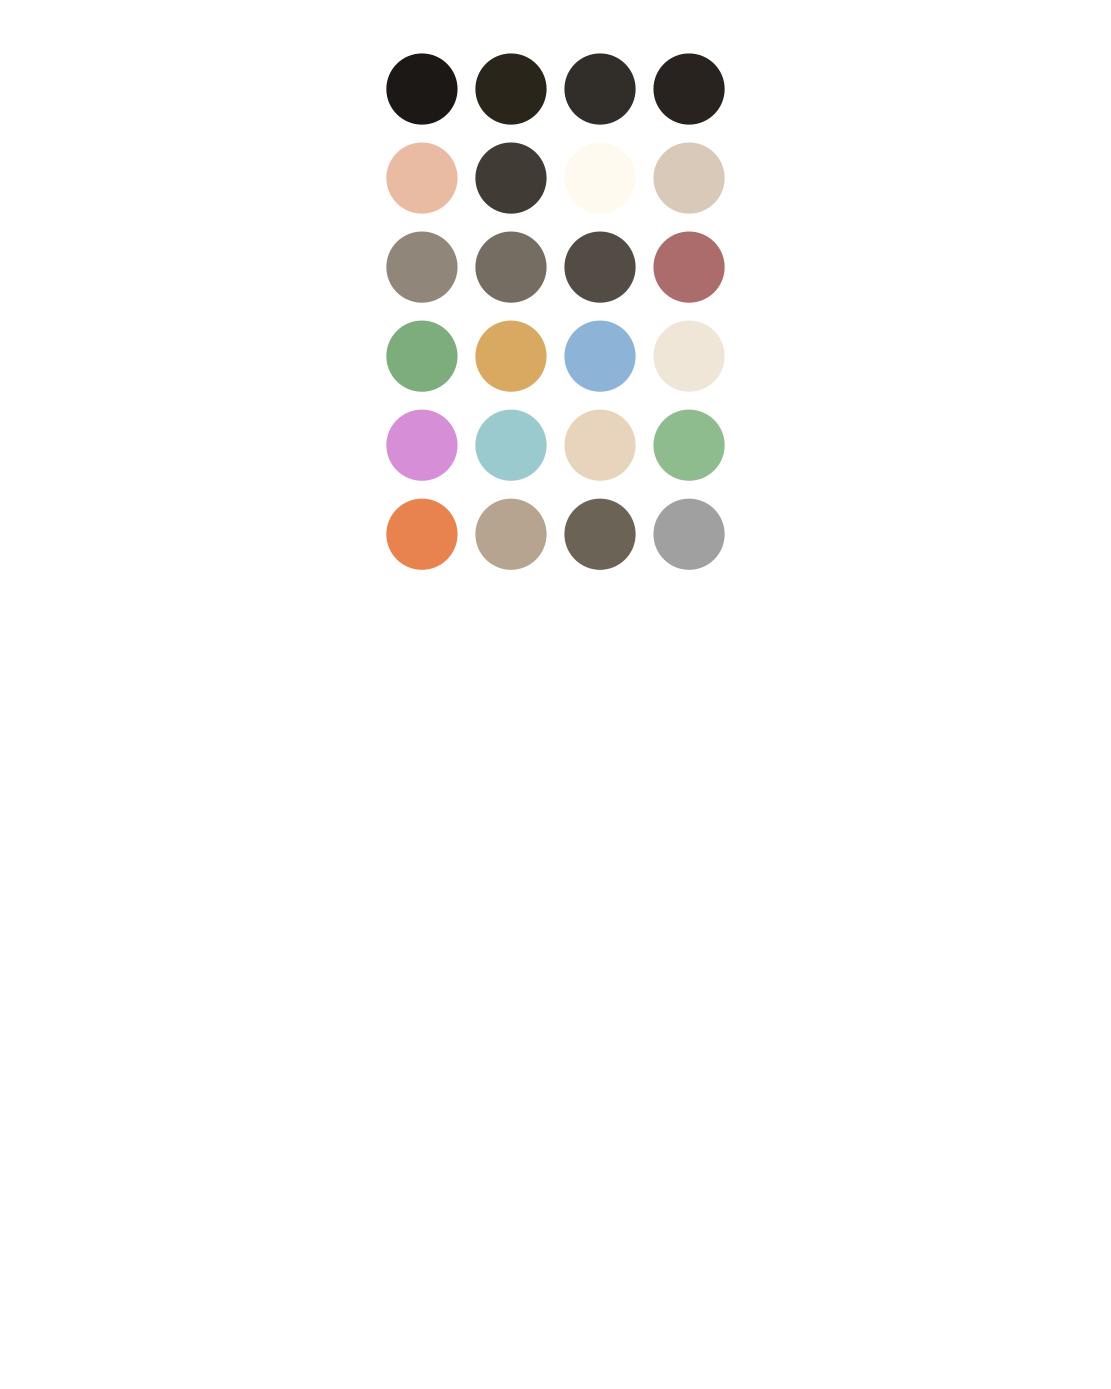
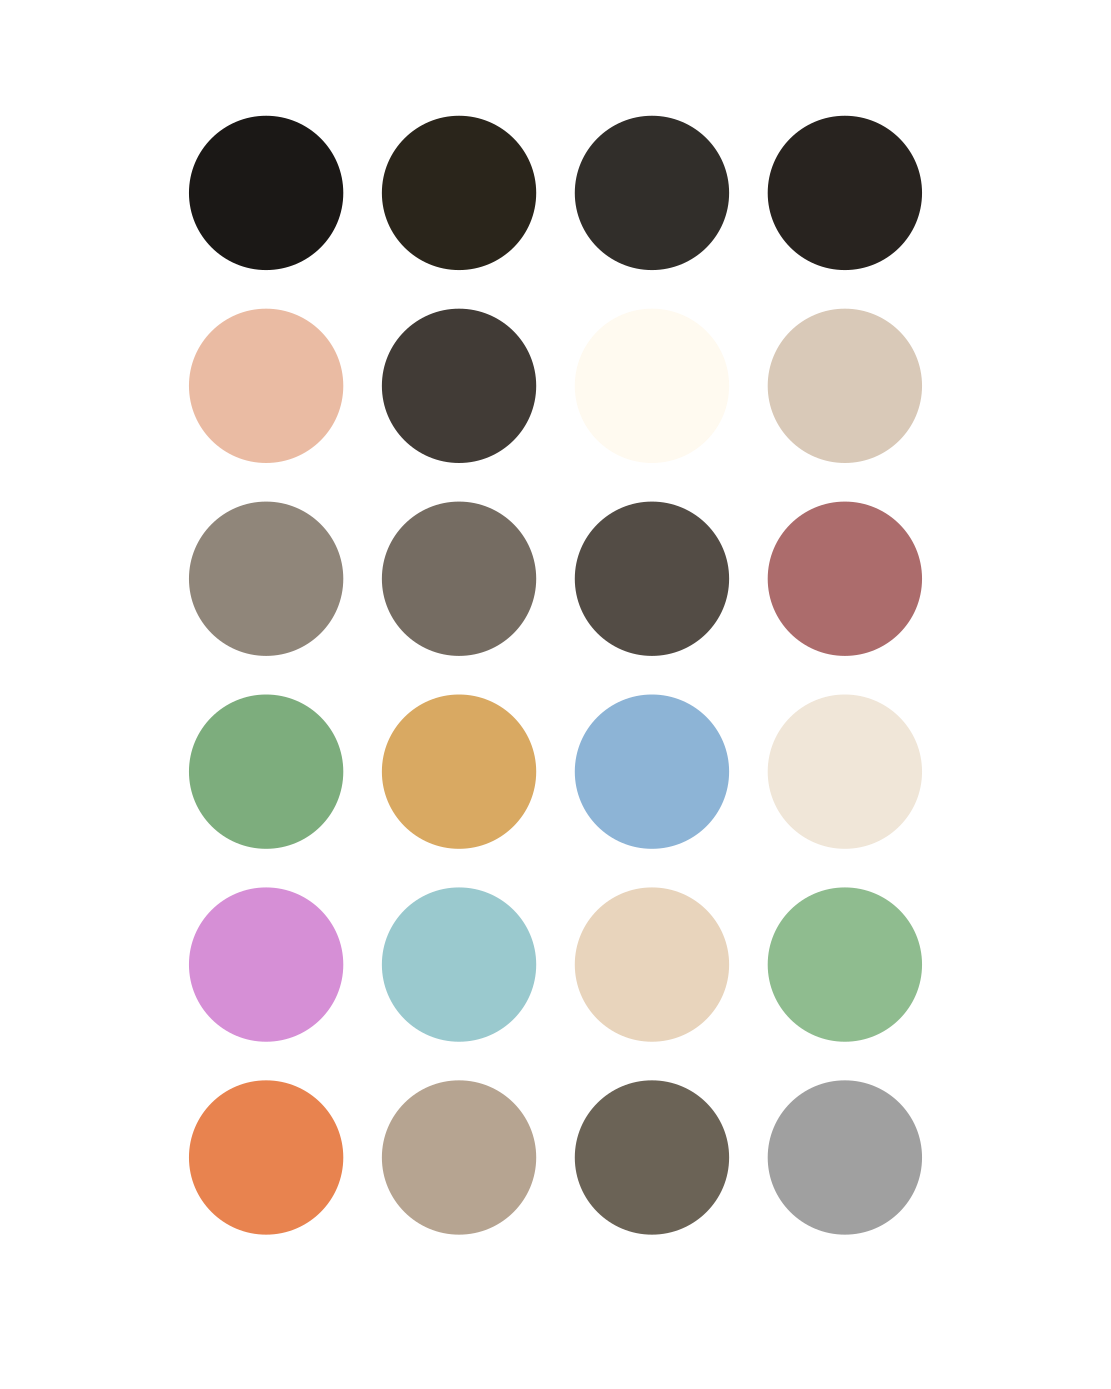
Deduplicate preview colors in SVG output, fix layout based on unique colors length

diff --git a/src/honeycrisp-IIe/theme.ts b/src/honeycrisp-IIe/theme.ts
@@ -107,7 +107,6 @@ export function createSvg({ colors }: Theme) {
       const isPreviewColor = ['black', 'transparent', 'terminal'].every(
         (keyTerm) => !key.includes(keyTerm)
       )
-
       if (isPreviewColor) {
         acc.push(color)
       }
@@ -116,14 +115,16 @@ export function createSvg({ colors }: Theme) {
     },
     []
   )
+  const uniqueColors = [...new Set(filteredColors)]
+
   return `
     <svg
       width="200"
       height="250"
-      viewBox="0 0 50 ${Math.ceil(Object.keys(colors).length / 4) * 12}"
+      viewBox="0 0 50 ${Math.ceil(Object.keys(uniqueColors).length / 4) * 12}"
       xmlns="http://www.w3.org/2000/svg"
     >
-    ${[...new Set(filteredColors)].map(createCircle).join('')}
+    ${uniqueColors.map(createCircle).join('')}
     </svg>
   `
 }
